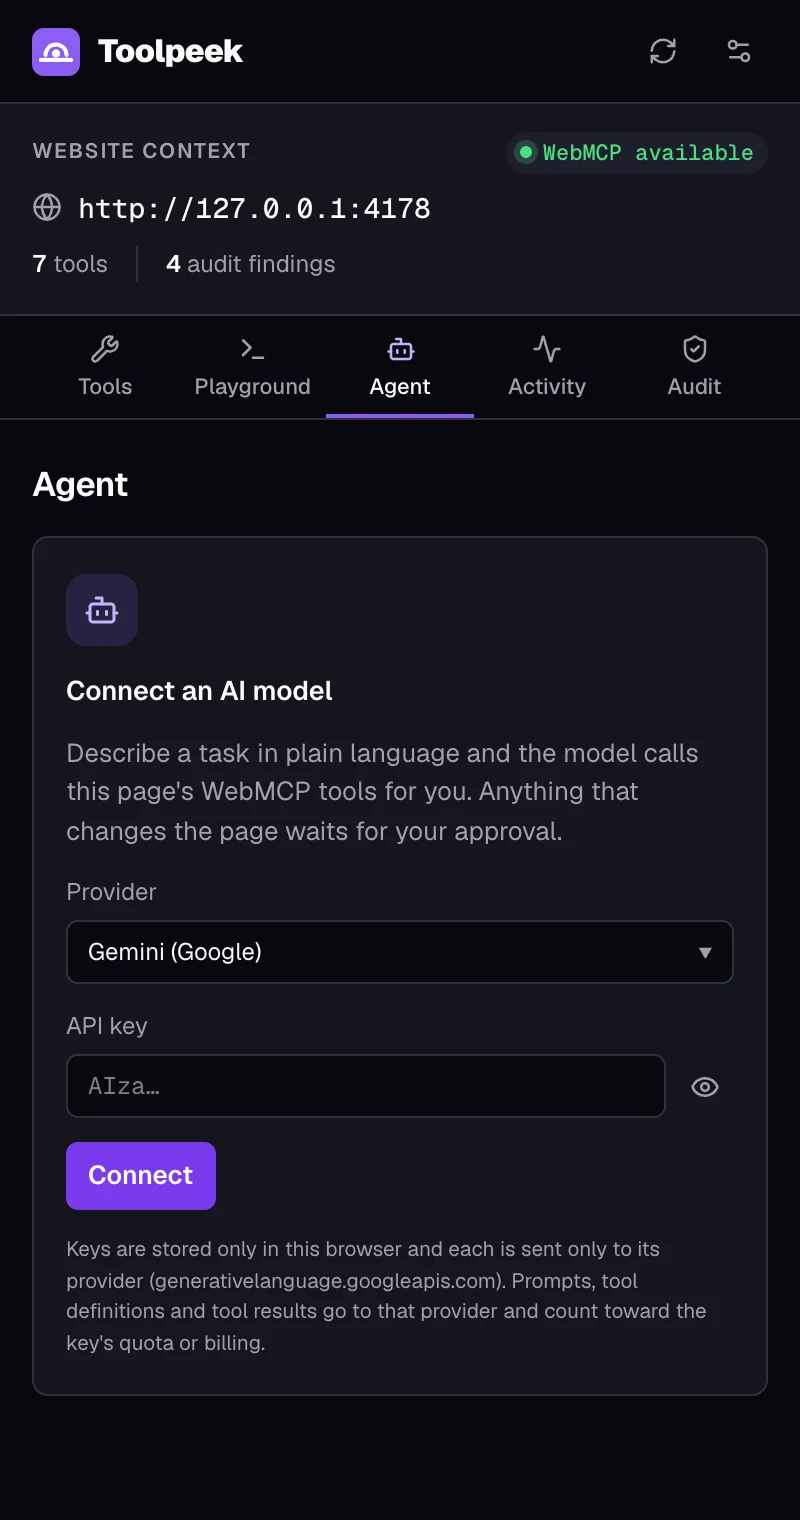
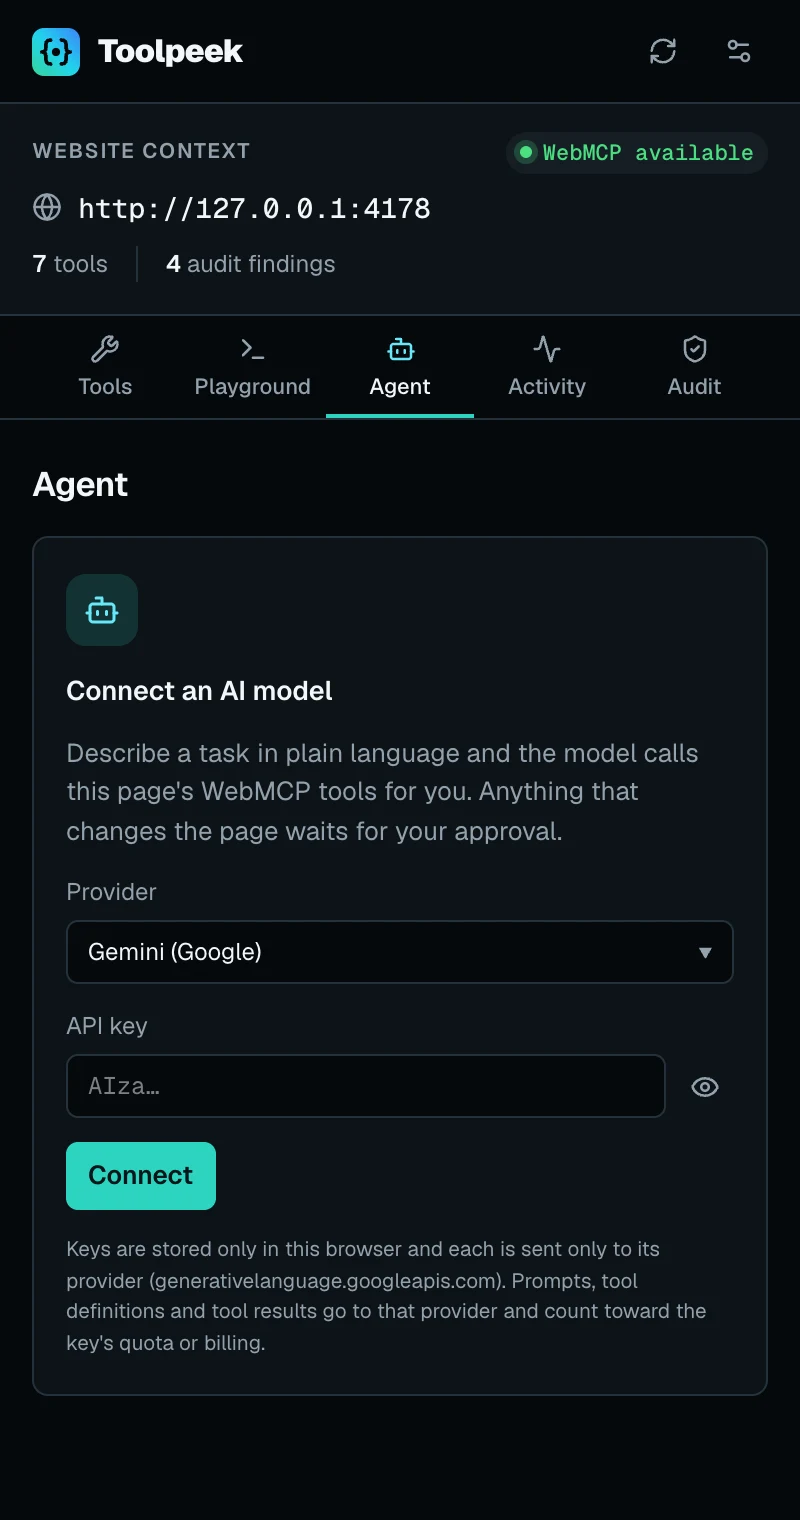
Bring the aurora palette to the website
Drifting green, cyan and blue light behind the hero, aurora-coloured beams
in the feature grid and a globe tinted green to blue. New favicons, logo,
screenshots and social image.

diff --git a/website/src/styles.css b/website/src/styles.css
@@ -15,15 +15,19 @@
 
 /* Toolpeek tokens (brand/tokens.css). The website is dark only. */
 @theme {
-  --color-bg: #09090f;
-  --color-surface: #15151f;
-  --color-raised: #1e1e2b;
-  --color-line: #30303d;
-  --color-fg: #fafafa;
-  --color-muted: #a1a1aa;
-  --color-primary: #8b5cf6;
-  --color-primary-fill: #7c3aed;
-  --color-accent: #c4b5fd;
+  --color-bg: #06090d;
+  --color-surface: #0d1318;
+  --color-raised: #151e25;
+  --color-line: #24313a;
+  --color-fg: #f2f6f8;
+  --color-muted: #93a1ac;
+  --color-primary: #2dd4bf;
+  --color-primary-fill: #2dd4bf;
+  --color-on-primary: #04161a;
+  --color-accent: #67e8f9;
+  --color-aurora-green: #34d399;
+  --color-aurora-cyan: #22d3ee;
+  --color-aurora-blue: #3b82f6;
   --font-sans: Geist, ui-sans-serif, system-ui, sans-serif;
   --font-mono: "Geist Mono", ui-monospace, SFMono-Regular, monospace;
 }
@@ -39,7 +43,7 @@ body {
   font-family: var(--font-sans);
 }
 ::selection {
-  background: rgb(139 92 246 / 0.4);
+  background: rgb(45 212 191 / 0.35);
 }
 :focus-visible {
   outline: 2px solid var(--color-primary);
@@ -64,7 +68,53 @@ body {
   }
 }
 
-/* Feature grid: violet beams travel along the 1px gaps between cells and the
+/* Hero aurora: three soft colour bands drifting slowly. */
+.aurora > span {
+  position: absolute;
+  border-radius: 9999px;
+  filter: blur(70px);
+  opacity: 0.26;
+  animation: drift 18s ease-in-out infinite alternate;
+}
+.aurora > span:nth-child(1) {
+  left: 8%;
+  top: -120px;
+  width: 45%;
+  height: 300px;
+  background: var(--color-aurora-green);
+}
+.aurora > span:nth-child(2) {
+  left: 32%;
+  top: -160px;
+  width: 40%;
+  height: 320px;
+  background: var(--color-aurora-cyan);
+  animation-duration: 22s;
+  animation-direction: alternate-reverse;
+}
+.aurora > span:nth-child(3) {
+  right: 6%;
+  top: -130px;
+  width: 42%;
+  height: 300px;
+  background: var(--color-aurora-blue);
+  animation-duration: 26s;
+}
+@keyframes drift {
+  from {
+    transform: translate3d(-6%, 0, 0) rotate(-4deg) scaleY(0.85);
+  }
+  to {
+    transform: translate3d(6%, 30px, 0) rotate(4deg) scaleY(1.1);
+  }
+}
+@media (prefers-reduced-motion: reduce) {
+  .aurora > span {
+    animation: none;
+  }
+}
+
+/* Feature grid: aurora beams (green, cyan, blue) travel along the 1px gaps between cells and the
    1px padding that forms the outline. Cells cover everything else.
    Each beam is a 360x140 (or 140x360) spot. To centre a spot of size S on a
    fraction p of the width, position it at calc(p * 100% + S*p - S/2). */
@@ -98,7 +148,7 @@ body {
 }
 @media (min-width: 64rem) and (prefers-reduced-motion: no-preference) {
   .lasers {
-    background-image: radial-gradient(closest-side, #fff, #fff 18%, #c4b5fd 42%, rgb(139 92 246 / 0.85) 70%, transparent), radial-gradient(closest-side, #fff, #fff 18%, #c4b5fd 42%, rgb(139 92 246 / 0.85) 70%, transparent), radial-gradient(closest-side, #fff, #fff 18%, #c4b5fd 42%, rgb(139 92 246 / 0.85) 70%, transparent), radial-gradient(closest-side, #fff, #fff 18%, #c4b5fd 42%, rgb(139 92 246 / 0.85) 70%, transparent), radial-gradient(closest-side, #fff, #fff 18%, #c4b5fd 42%, rgb(139 92 246 / 0.85) 70%, transparent), radial-gradient(closest-side, #fff, #fff 18%, #c4b5fd 42%, rgb(139 92 246 / 0.85) 70%, transparent), radial-gradient(closest-side, #fff, #fff 18%, #c4b5fd 42%, rgb(139 92 246 / 0.85) 70%, transparent);
+    background-image: radial-gradient(closest-side, #fff, #fff 18%, #6ee7b7 42%, rgb(52 211 153 / 0.85) 70%, transparent), radial-gradient(closest-side, #fff, #fff 18%, #a5f3fc 42%, rgb(34 211 238 / 0.85) 70%, transparent), radial-gradient(closest-side, #fff, #fff 18%, #93c5fd 42%, rgb(59 130 246 / 0.85) 70%, transparent), radial-gradient(closest-side, #fff, #fff 18%, #6ee7b7 42%, rgb(52 211 153 / 0.85) 70%, transparent), radial-gradient(closest-side, #fff, #fff 18%, #a5f3fc 42%, rgb(34 211 238 / 0.85) 70%, transparent), radial-gradient(closest-side, #fff, #fff 18%, #a5f3fc 42%, rgb(34 211 238 / 0.85) 70%, transparent), radial-gradient(closest-side, #fff, #fff 18%, #93c5fd 42%, rgb(59 130 246 / 0.85) 70%, transparent);
     background-size:
       360px 140px, 360px 140px, 360px 140px,
       140px 360px, 140px 360px, 140px 360px, 140px 360px;

diff --git a/website/src/app/globe.ts b/website/src/app/globe.ts
@@ -9,8 +9,8 @@ import {
 } from "@angular/core";
 
 /**
- * Rotating dotted sphere rising like a horizon behind the hero, echoing the
- * logo (an eye peeking over an edge). Some dots are "tools" that pulse, and
+ * Rotating dotted sphere rising like a horizon behind the hero, coloured like
+ * an aurora (green → cyan → blue). Some dots are "tools" that pulse, and
  * arcs connect them the way an agent hops between tools.
  * Canvas 2D, ~2.4k points; pauses off-screen and is static for reduced motion.
  */
@@ -64,6 +64,19 @@ export class Globe {
       cy = radius + 24;
     };
 
+    // Aurora colour across the sphere: green (left) → cyan → blue (right).
+    const stops = [
+      [52, 211, 153],
+      [34, 211, 238],
+      [59, 130, 246],
+    ];
+    const aurora = (x: number) => {
+      const t = Math.min(1, Math.max(0, (x + 1) / 2)) * 2;
+      const [a, b] = t < 1 ? [stops[0], stops[1]] : [stops[1], stops[2]];
+      const f = t < 1 ? t : t - 1;
+      return a.map((v, i) => Math.round(v + (b[i] - v) * f)).join(",");
+    };
+
     const tilt = 0.32;
     const project = ([x, y, z]: [number, number, number], angle: number) => {
       const cos = Math.cos(angle);
@@ -81,9 +94,9 @@ export class Globe {
 
       // Atmosphere rim.
       const rim = ctx.createRadialGradient(cx, cy, radius * 0.92, cx, cy, radius * 1.12);
-      rim.addColorStop(0, "rgba(139,92,246,0)");
-      rim.addColorStop(0.45, "rgba(139,92,246,0.3)");
-      rim.addColorStop(1, "rgba(139,92,246,0)");
+      rim.addColorStop(0, "rgba(34,211,238,0)");
+      rim.addColorStop(0.45, "rgba(45,212,191,0.28)");
+      rim.addColorStop(1, "rgba(59,130,246,0)");
       ctx.fillStyle = rim;
       ctx.beginPath();
       ctx.arc(cx, cy, radius * 1.12, 0, Math.PI * 2);
@@ -93,7 +106,7 @@ export class Globe {
         const q = project(p, angle);
         if (q.z < 0) continue;
         const size = 1.1 + q.z * 1.4;
-        ctx.fillStyle = `rgba(196,181,253,${0.16 + q.z * 0.7})`;
+        ctx.fillStyle = `rgba(${aurora((q.x - cx) / radius)},${0.16 + q.z * 0.7})`;
         ctx.fillRect(q.x - size / 2, q.y - size / 2, size, size);
       }
 
@@ -102,11 +115,11 @@ export class Globe {
         const q = project(n, angle);
         if (q.z < 0.15) continue;
         const pulse = 0.5 + 0.5 * Math.sin(time * 0.003 + i);
-        ctx.fillStyle = `rgba(139,92,246,${0.25 * pulse * q.z})`;
+        ctx.fillStyle = `rgba(34,211,238,${0.28 * pulse * q.z})`;
         ctx.beginPath();
         ctx.arc(q.x, q.y, 4 + pulse * 4, 0, Math.PI * 2);
         ctx.fill();
-        ctx.fillStyle = `rgba(250,250,250,${0.5 + 0.5 * q.z})`;
+        ctx.fillStyle = `rgba(242,246,248,${0.5 + 0.5 * q.z})`;
         ctx.beginPath();
         ctx.arc(q.x, q.y, 1.6, 0, Math.PI * 2);
         ctx.fill();
@@ -135,7 +148,7 @@ export class Globe {
         const len = Math.hypot(dx, dy) || 1;
         const kx = mx + (dx / len) * lift;
         const ky = my + (dy / len) * lift;
-        ctx.strokeStyle = `rgba(196,181,253,${0.75 * fade})`;
+        ctx.strokeStyle = `rgba(110,231,183,${0.75 * fade})`;
         ctx.lineWidth = 1.2;
         ctx.beginPath();
         ctx.moveTo(p.x, p.y);

diff --git a/website/src/app/pages/home.html b/website/src/app/pages/home.html
@@ -1,13 +1,12 @@
 <section class="relative overflow-hidden">
-  <div
-    aria-hidden="true"
-    class="pointer-events-none absolute inset-x-0 -top-40 h-[560px] bg-[radial-gradient(ellipse_at_center,rgb(139_92_246/0.18),transparent_65%)]"
-  ></div>
+  <div aria-hidden="true" class="aurora pointer-events-none absolute inset-x-0 top-0 h-[520px]">
+    <span></span><span></span><span></span>
+  </div>
   <tp-globe
     class="absolute left-1/2 top-[600px] h-[720px] w-[min(1200px,170vw)] -translate-x-1/2 [mask-image:linear-gradient(to_bottom,black_45%,transparent_90%)] sm:top-[440px]"
   />
   <div class="relative mx-auto max-w-6xl px-5 pb-16 pt-20 text-center sm:pt-28">
-    <p class="rise font-mono text-xs uppercase tracking-[0.18em] text-accent">
+    <p class="rise bg-gradient-to-r from-aurora-green via-aurora-cyan to-aurora-blue bg-clip-text font-mono text-xs uppercase tracking-[0.18em] text-transparent">
       Discover. Inspect. Execute.
     </p>
     <h1
@@ -29,7 +28,7 @@
     >
       <a
         [href]="installHref"
-        class="inline-flex items-center gap-2 rounded-md bg-primary-fill px-5 py-3 font-medium text-white transition-colors hover:bg-primary"
+        class="inline-flex items-center gap-2 rounded-md bg-primary-fill px-5 py-3 font-medium text-on-primary transition-colors hover:bg-accent"
         ><tp-icon name="puzzle" />Add to Chrome</a
       >
       <a
@@ -163,7 +162,7 @@
           <p class="mt-3 text-sm text-muted">One click, automatic updates.</p>
           <a
             [href]="site.chromeWebStore"
-            class="mt-auto inline-flex w-fit items-center gap-2 self-center rounded-md bg-primary-fill px-4 py-2 text-sm font-medium text-white hover:bg-primary"
+            class="mt-auto inline-flex w-fit items-center gap-2 self-center rounded-md bg-primary-fill px-4 py-2 text-sm font-medium text-on-primary hover:bg-accent"
             >Add to Chrome<tp-icon name="arrow-right" [size]="14"
           /></a>
         } @else {
@@ -185,7 +184,7 @@
         </ol>
         <a
           [href]="site.releases"
-          class="mt-5 inline-flex w-fit items-center gap-2 self-center rounded-md bg-primary-fill px-4 py-2 text-sm font-medium text-white hover:bg-primary"
+          class="mt-5 inline-flex w-fit items-center gap-2 self-center rounded-md bg-primary-fill px-4 py-2 text-sm font-medium text-on-primary hover:bg-accent"
           ><tp-icon name="download" [size]="14" />Download latest release</a
         >
       </article>
